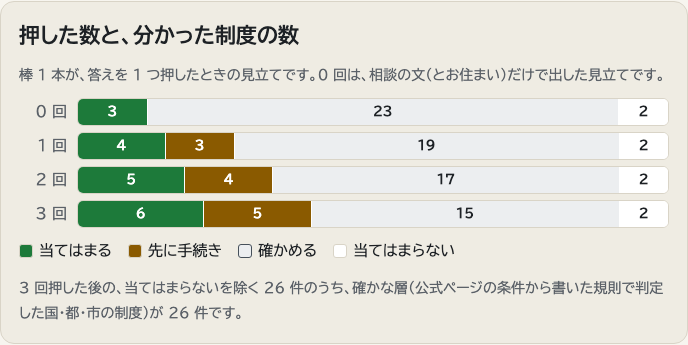
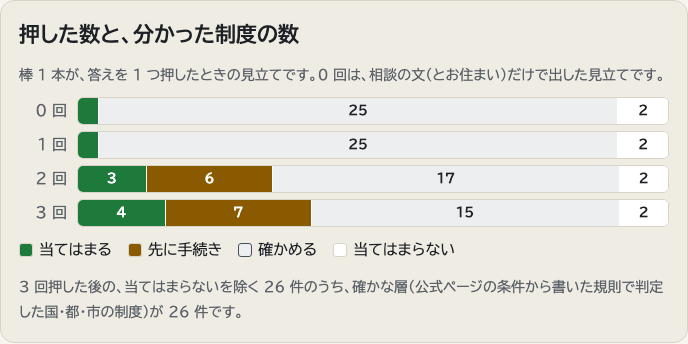
T-083c: dev-merge の README の「手間と、分かること」の数と問いを、規則の直しの後の見本の道（0 回 1・25 → 3 回 4・7・15）にし、図を dev-merge の画面で撮り直す（dev-merge だけ）

diff --git a/README.md b/README.md
@@ -42,7 +42,7 @@
 
 入力にあまり手間をかけなくても「こんな制度が申請できるかも」と気づけることを、目的にしました。相談の文とお住まいだけでも、確かめると使えるかもしれない制度までを並べます。答えを 1 つ押すたびに「確かめる」が「当てはまる」「先に手続き」に分かれ、3 問で止まります。
 
-結果の画面には、押した数ごとの見立てを積み上げ棒で出します。下の図は見本「退院した母」で、問いにそれぞれ先頭の選択肢で答えた場合です。0 回では当てはまる 3 件と確かめる 23 件、3 回押した後は当てはまる 6 件・先に手続き 5 件・確かめる 15 件でした。
+結果の画面には、押した数ごとの見立てを積み上げ棒で出します。下の図は見本「退院した母」で、問いにそれぞれ先頭の選択肢で答えた場合です。問いは、認定を受けているか（受けていない）・日々の暮らしで介助や手助けが要る場面があるか（はい）・医療費の自己負担が高くなったか（はい）の順でした。0 回では当てはまる 1 件と確かめる 25 件、3 回押した後は当てはまる 4 件・先に手続き 7 件・確かめる 15 件でした。1 回目の答え（認定を受けていない）では数は変わらず、2 回目で要介護認定の申請が当てはまり、その先の手続きが並びます。
 
 ![押した数ごとに、当てはまる・先に手続き・確かめる・当てはまらない制度の数を積み上げた棒の図](docs/img/effort.png)
 
